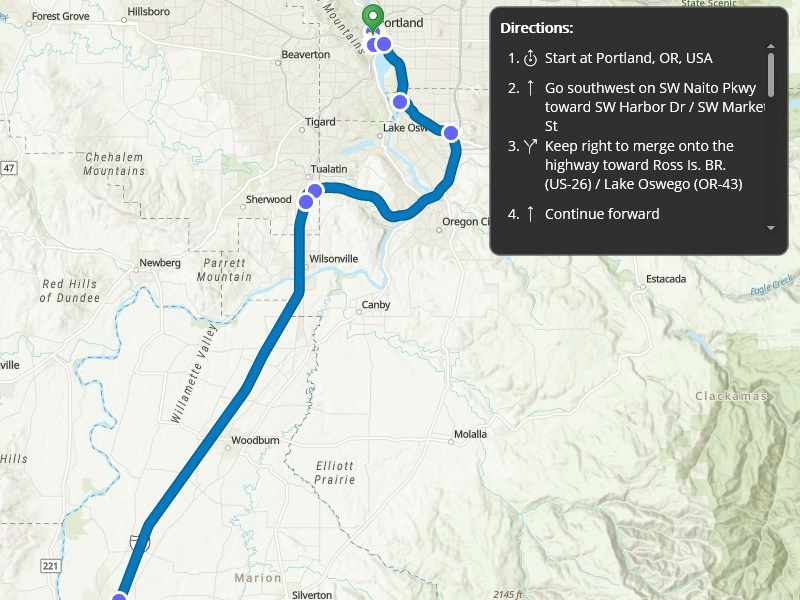
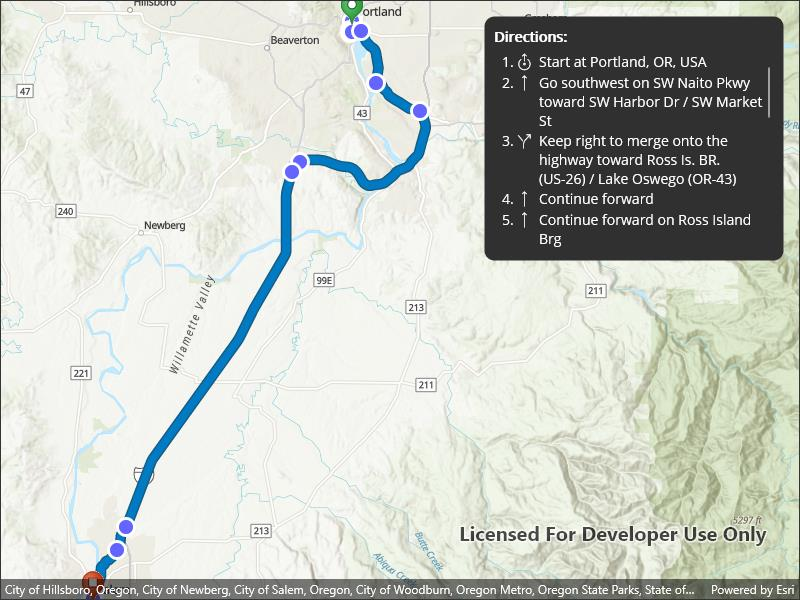
.NET MAUI `DisplayRouteLayer`: visible directions (#1327)

diff --git a/src/MAUI/Maui.Samples/Samples/Layers/DisplayRouteLayer/DisplayRouteLayer.xaml b/src/MAUI/Maui.Samples/Samples/Layers/DisplayRouteLayer/DisplayRouteLayer.xaml
@@ -9,46 +9,31 @@
         <converters:DirectionPointTypeToIconConverter x:Key="Converter" />
     </ContentPage.Resources>
 
-    <Grid>
-        <esriUI:MapView x:Name="MyMapView" />
-        <StackLayout>
-            <Button Clicked="Button_Clicked" Text="Show/hide directions" />
-            <Border x:Name="DirectionsView"
-                    Margin="15"
-                    Padding="10"
-                    BackgroundColor="{AppThemeBinding Light=#dfdfdf,
-                                                      Dark=#303030}"
-                    HorizontalOptions="End"
-                    IsVisible="False"
-                    HeightRequest="250"
-                    WidthRequest="300"
-                    StrokeShape="RoundRectangle 10">
-                <VerticalStackLayout>
-                    <Label FontAttributes="Bold"
-                           Text="Directions:"
-                           TextColor="{AppThemeBinding Light={StaticResource Black},
-                                                       Dark={StaticResource White}}" />
-                    <CollectionView x:Name="DirectionsList"
-                                    HeightRequest="200"
-                                    VerticalScrollBarVisibility="Default">
-                        <CollectionView.ItemTemplate>
-                            <DataTemplate>
-                                <Grid ColumnDefinitions="20,25,*">
-                                    <Label HorizontalOptions="End" Text="{Binding Attributes[Sequence], StringFormat='{}{0}.'}" />
-                                    <Label Grid.Column="1"
-                                           FontFamily="calcite-ui-icons-24"
-                                           FontSize="20"
-                                           Text="{Binding Attributes[DirectionPointType], Converter={StaticResource Converter}}" />
-                                    <Label Grid.Column="2"
-                                           LineBreakMode="WordWrap"
-                                           Text="{Binding Attributes[DisplayText]}" />
-                                </Grid>
-                            </DataTemplate>
-                        </CollectionView.ItemTemplate>
-                    </CollectionView>
-                </VerticalStackLayout>
-            </Border>
-        </StackLayout>
+    <Grid Style="{DynamicResource EsriSampleContainer}">
+        <esriUI:MapView x:Name="MyMapView" Style="{DynamicResource EsriSampleGeoView}" />
+        <Border Style="{DynamicResource EsriSampleControlPanel}">
+            <StackLayout Spacing="5">
+                <Label FontAttributes="Bold" Text="Directions:" />
+                <CollectionView x:Name="DirectionsList"
+                                HeightRequest="200"
+                                VerticalScrollBarVisibility="Default">
+                    <CollectionView.ItemTemplate>
+                        <DataTemplate>
+                            <Grid ColumnDefinitions="20,25,*">
+                                <Label HorizontalOptions="End" Text="{Binding Attributes[Sequence], StringFormat='{}{0}.'}" />
+                                <Label Grid.Column="1"
+                                       FontFamily="calcite-ui-icons-24"
+                                       FontSize="20"
+                                       Text="{Binding Attributes[DirectionPointType], Converter={StaticResource Converter}}" />
+                                <Label Grid.Column="2"
+                                       LineBreakMode="WordWrap"
+                                       Text="{Binding Attributes[DisplayText]}" />
+                            </Grid>
+                        </DataTemplate>
+                    </CollectionView.ItemTemplate>
+                </CollectionView>
+            </StackLayout>
+        </Border>
     </Grid>
 
 </ContentPage>

diff --git a/src/MAUI/Maui.Samples/Samples/Layers/DisplayRouteLayer/DisplayRouteLayer.xaml.cs b/src/MAUI/Maui.Samples/Samples/Layers/DisplayRouteLayer/DisplayRouteLayer.xaml.cs
@@ -71,11 +71,5 @@ namespace ArcGIS.Samples.DisplayRouteLayer
                 await Application.Current.MainPage.DisplayAlert("Error", e.ToString(), "OK");
             }
         }
-
-        private void Button_Clicked(object sender, EventArgs e)
-        {
-            // Toggle the visibility of the directions.
-            DirectionsView.IsVisible = !DirectionsView.IsVisible;
-        }
     }
 }
